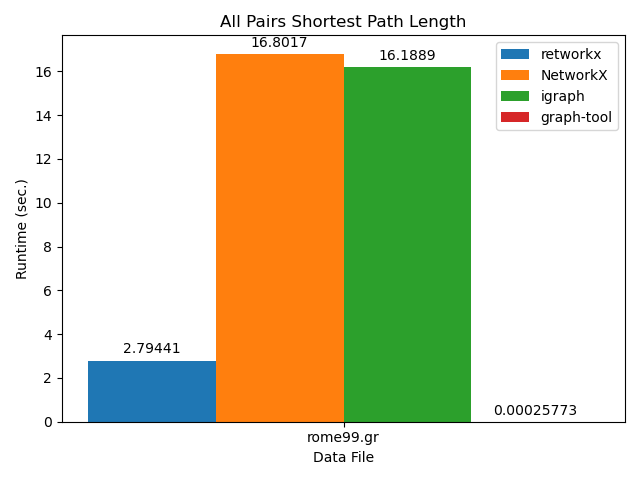
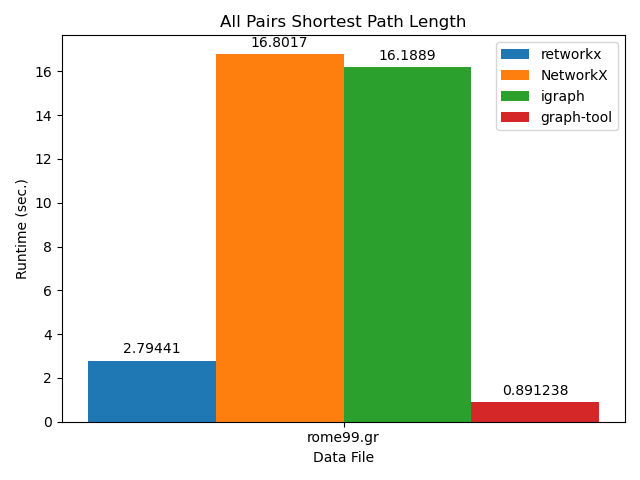
Fix all pairs graph to include graph-tool too

Changed region(s): [[0.7188, 0.7812, 0.9375, 0.9062]]

diff --git a/graph_results.py b/graph_results.py
@@ -232,7 +232,7 @@ def all_pair_graph():
         with open(graph_tools_file) as csvfile:
             data_reader = csv.reader(csvfile)
             for row in data_reader:
-                if row[0] == "Single Source":
+                if row[0] == "All Pairs Shortest Path Length":
                     graph_tools_times.append(
                         statistics.mean([float(x) for x in row[1:]])
                     )
